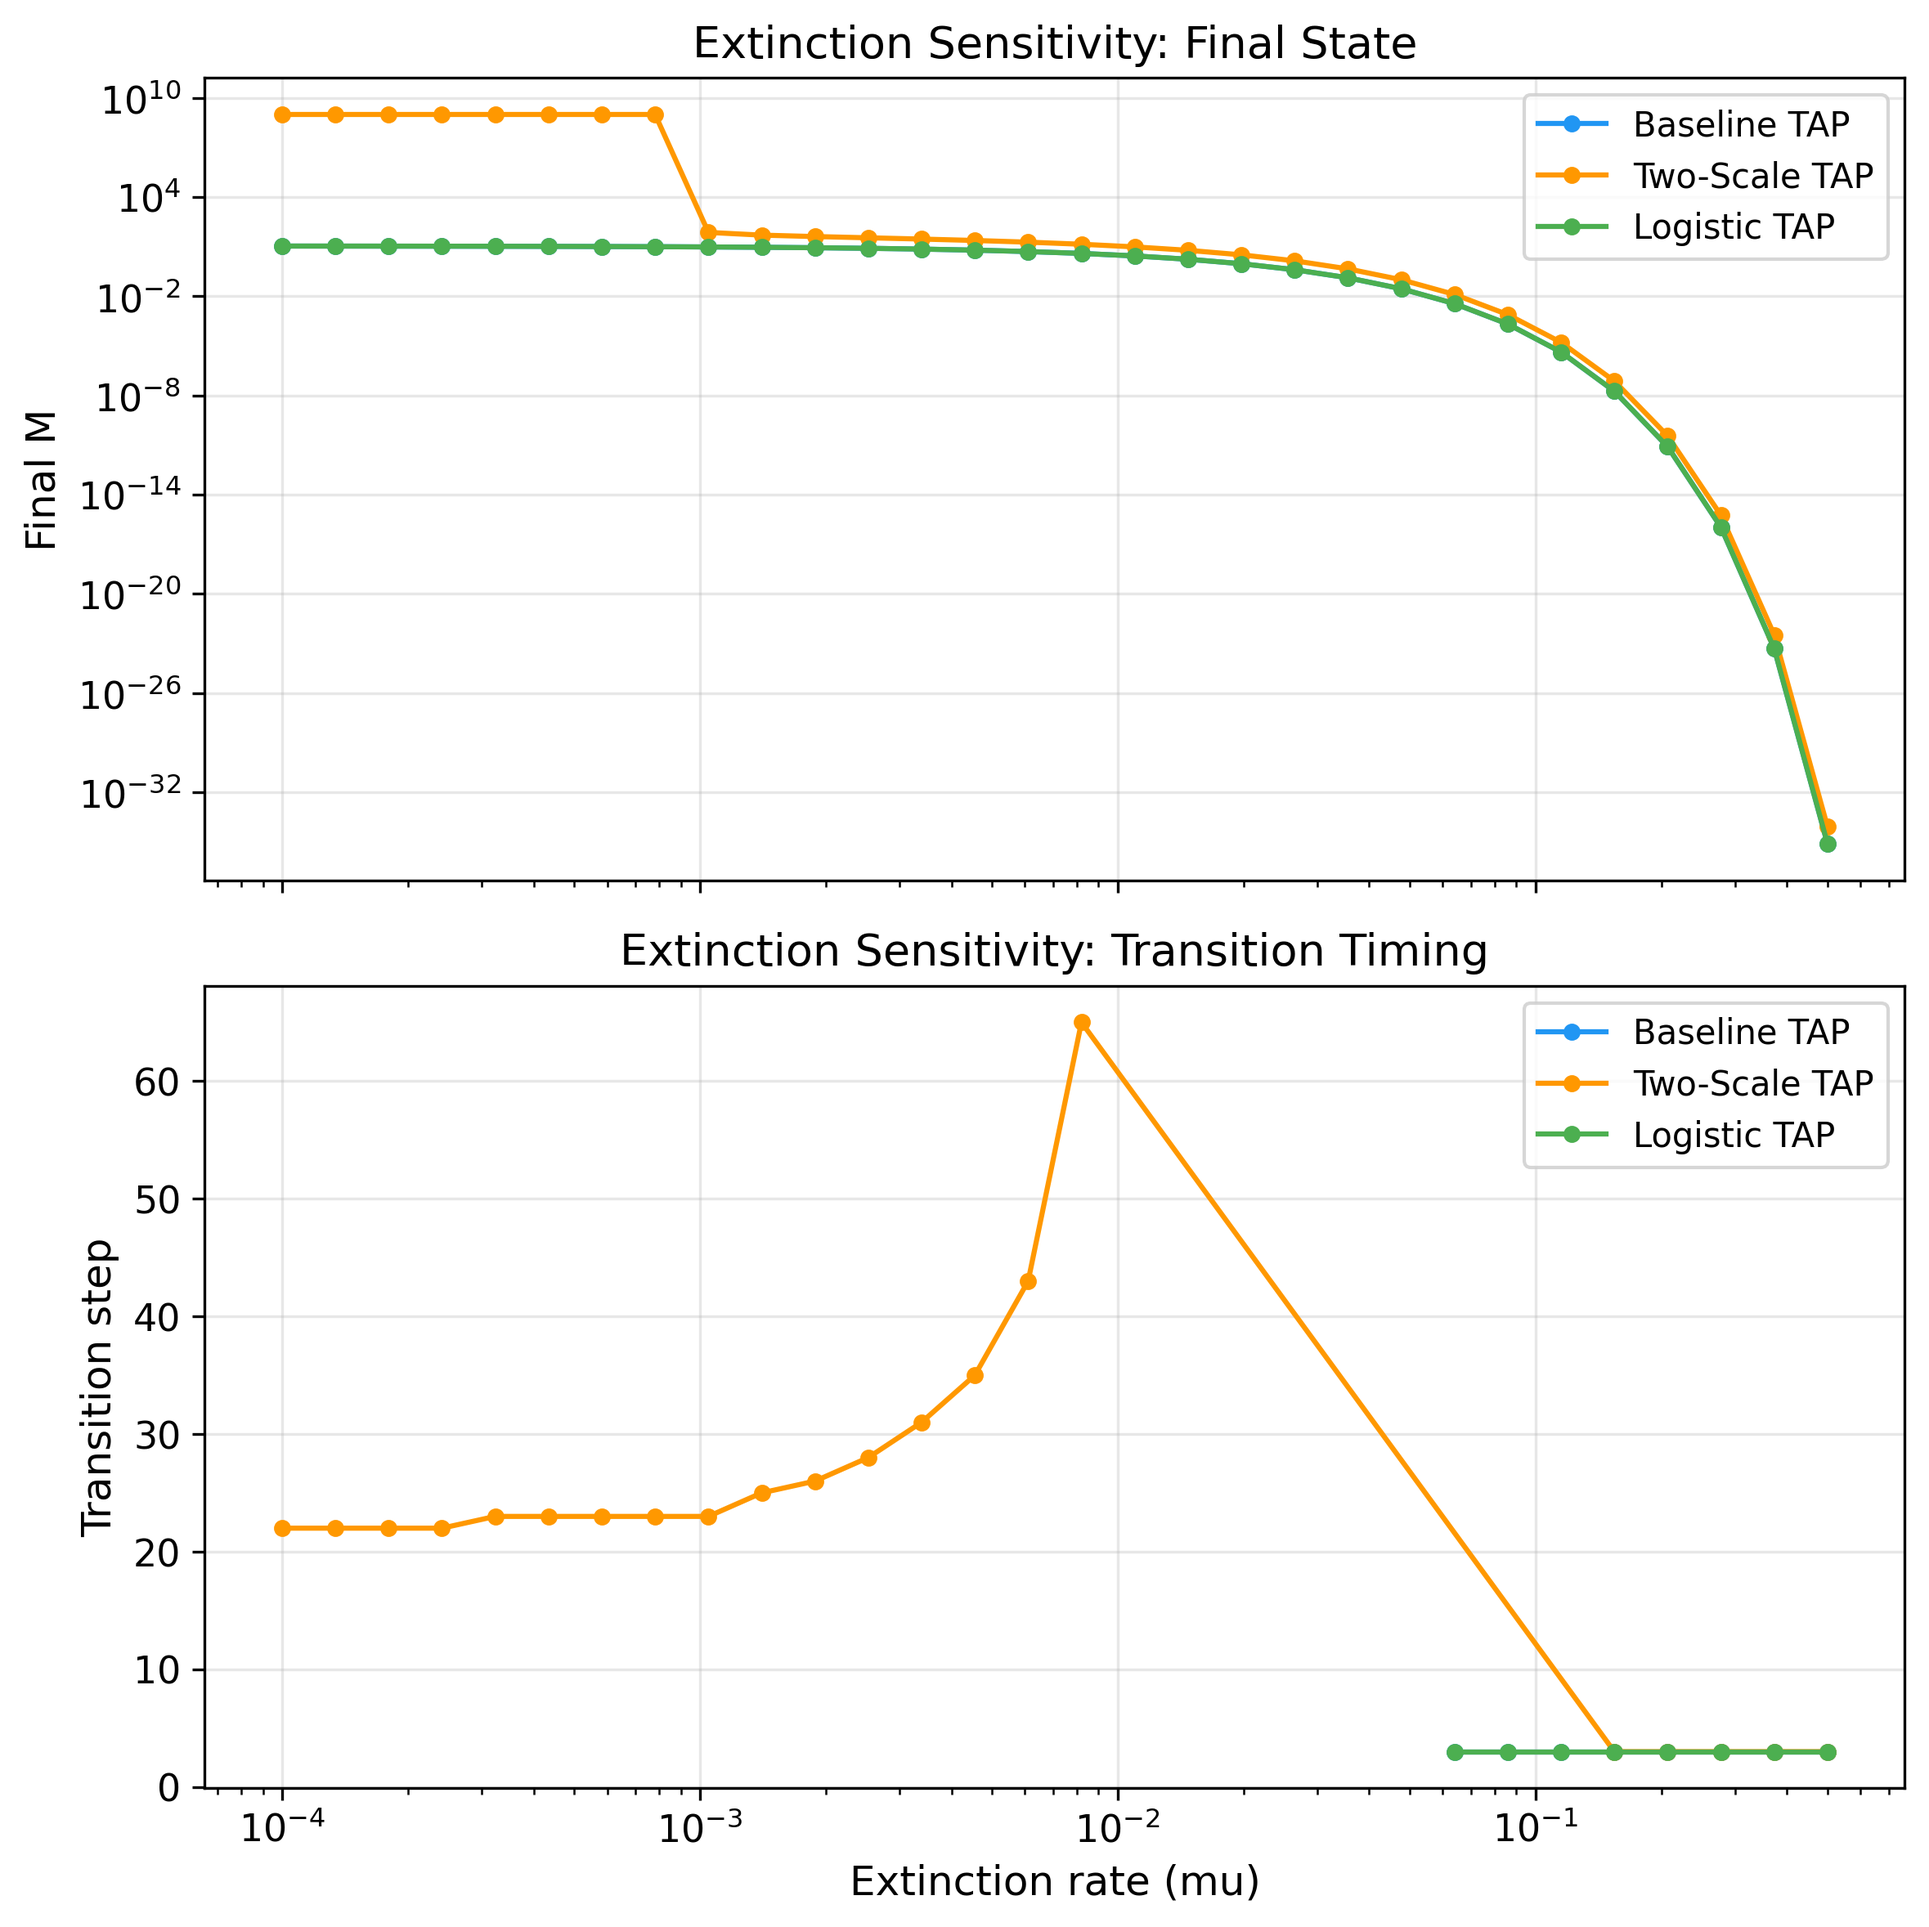
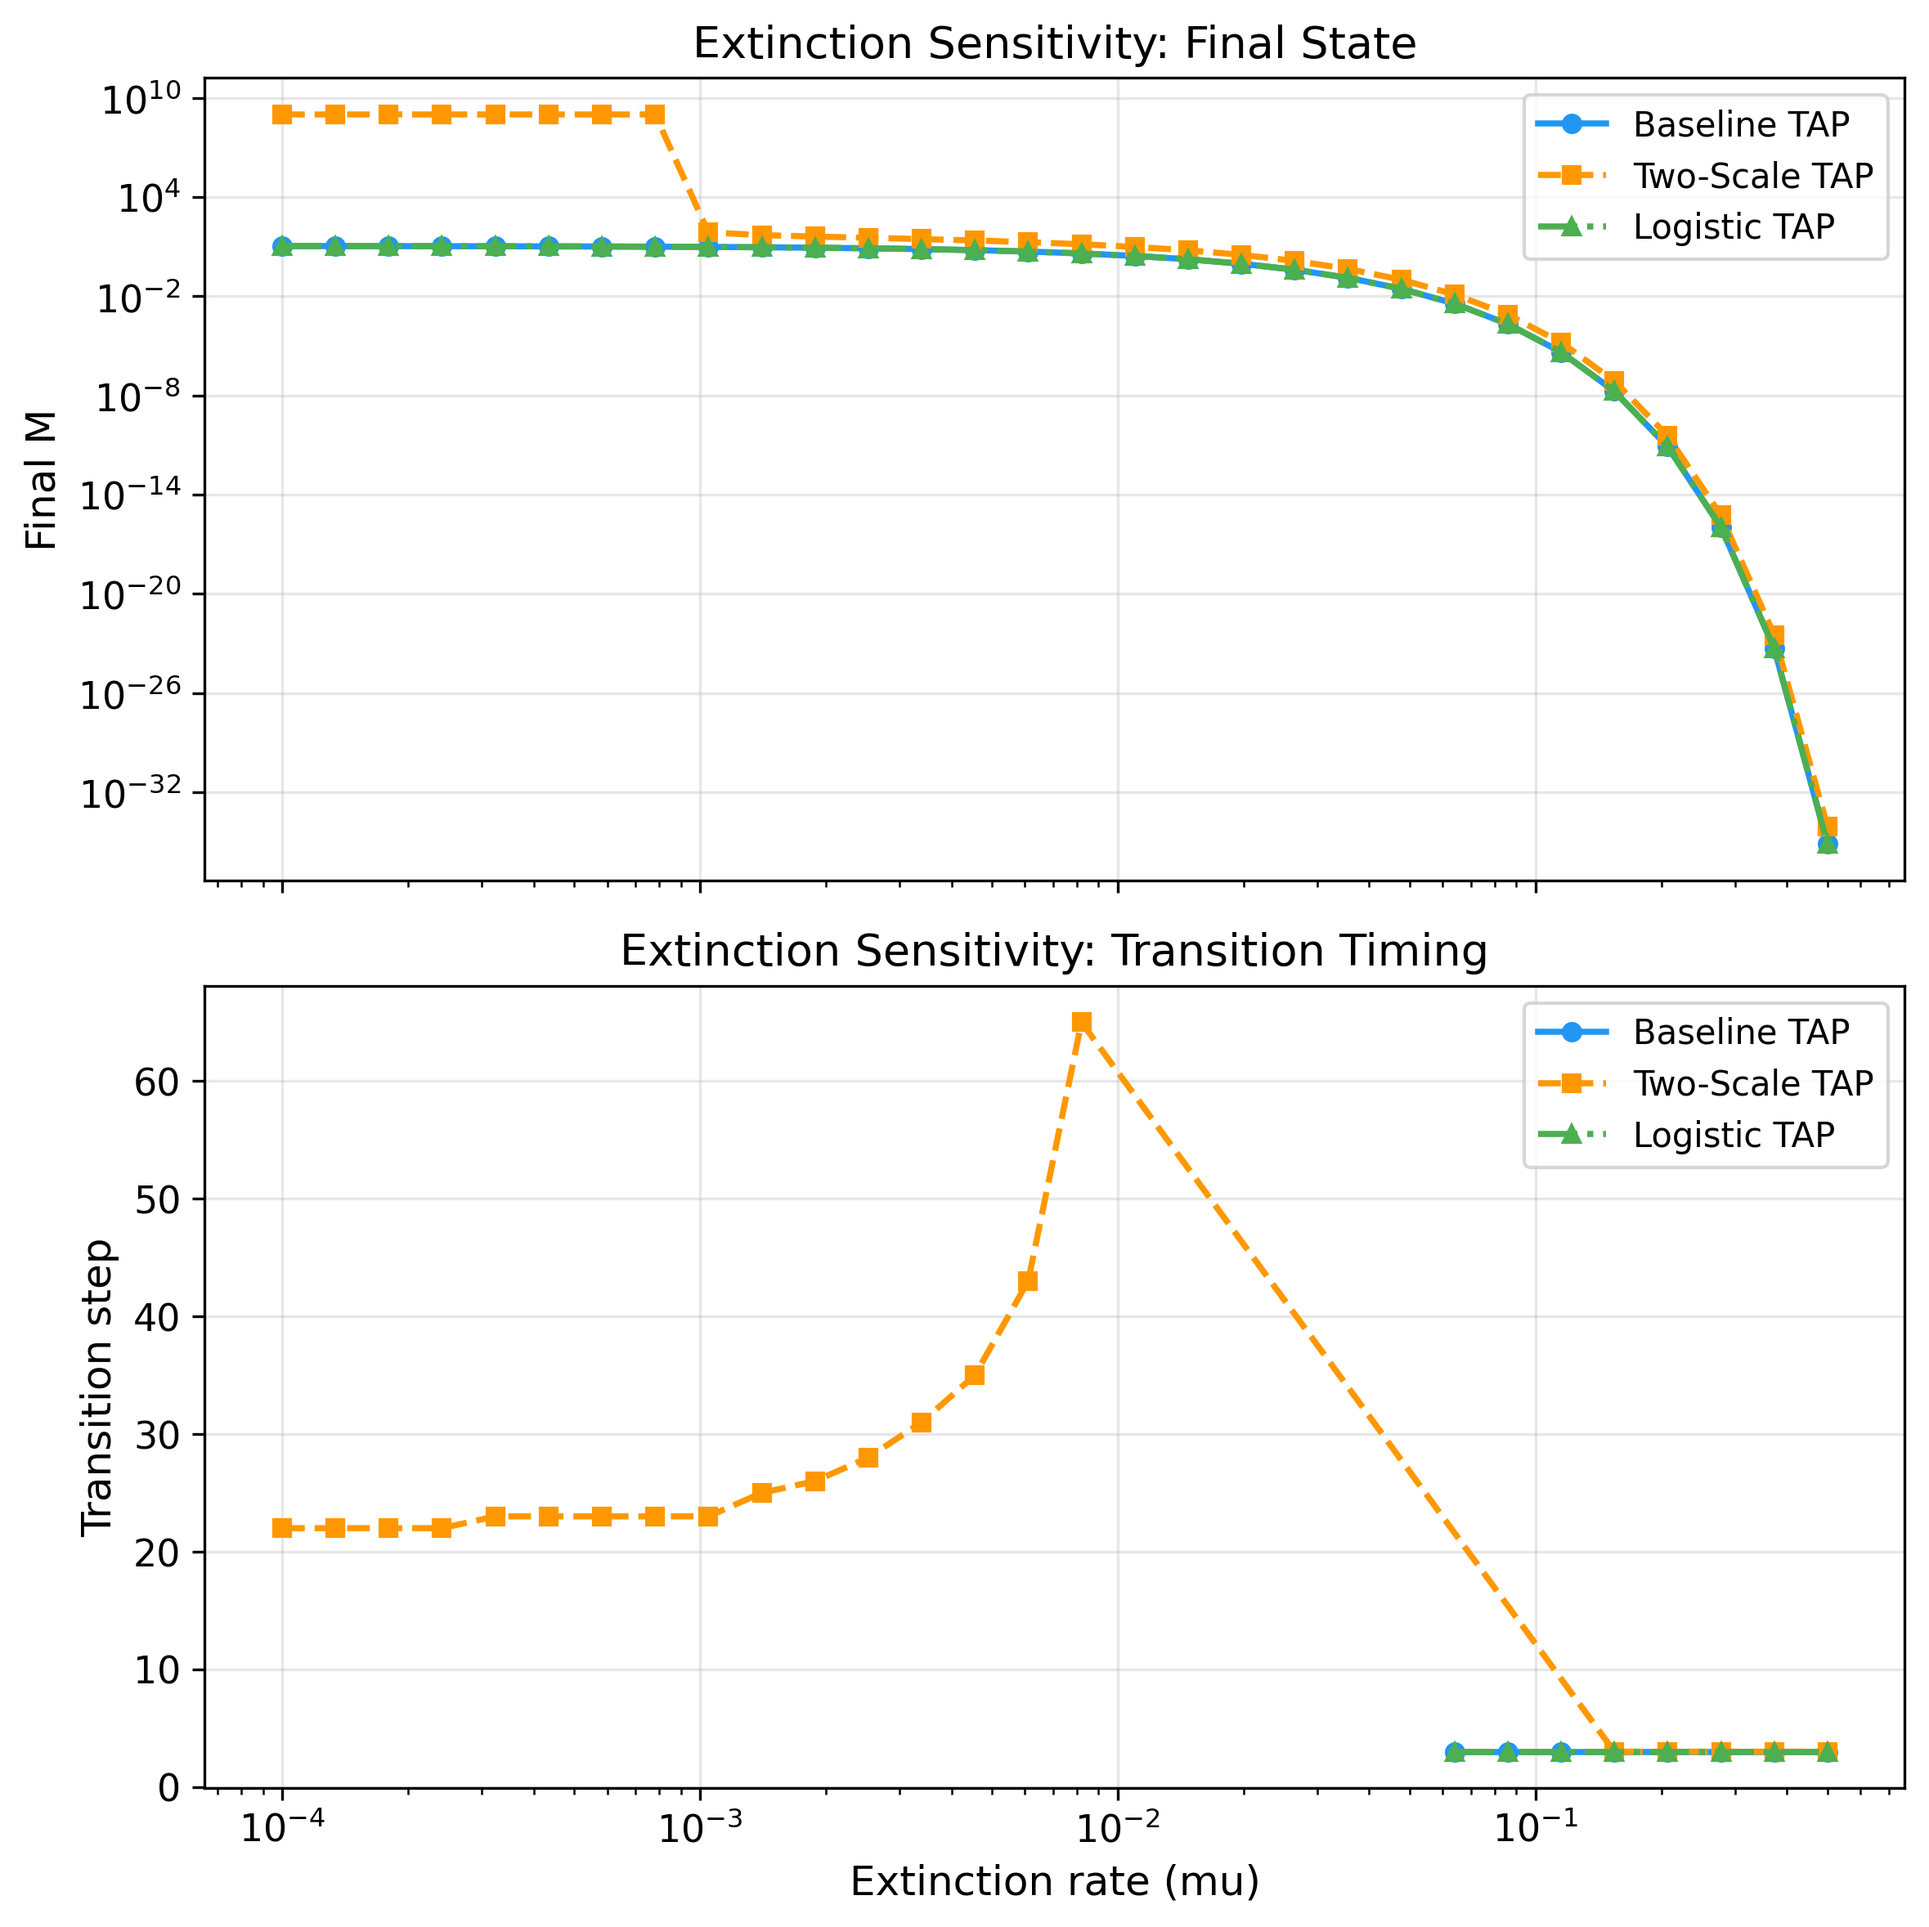
fix: figure quality — growth params, m_cap guard, distinct markers
- Trajectory: use growth-producing params (alpha=5e-3, a=3, mu=0.005)
  so all 3 variants show actual TAP growth instead of extinction
- Turbulence: same growth params + m_cap=1e4 to prevent ODE solver hang
- Sensitivity: distinct markers (o/s/^) and linestyles per variant
- Scaling exponents: use first 70% of trajectory to avoid S-curve tail
- Remove dead _make_params line overwritten by explicit ModelParams

diff --git a/scripts/generate_figures.py b/scripts/generate_figures.py
@@ -74,26 +74,36 @@ def _make_params(variant: str, alpha=1e-3, a=8.0, mu=0.02) -> ModelParams:
 # ── Figure 1: Trajectory comparison ──────────────────────────────────
 
 def fig_trajectory_variants(save_path: str | None = None) -> None:
-    """M(t) trajectories for all three variants side by side."""
+    """M(t) trajectories for all three variants overlaid."""
     _setup_style()
-    fig, axes = plt.subplots(1, 3, figsize=(14, 4), sharey=True)
+    fig, ax = plt.subplots(figsize=(9, 5))
 
-    for i, variant in enumerate(["baseline", "two_scale", "logistic"]):
-        ax = axes[i]
-        params = _make_params(variant)
-        result = run_continuous(
-            initial_M=10.0, t_span=(0, 50), params=params,
-            sigma0=1.0, gamma=0.0, max_step=0.5,
+    styles = {"baseline": "-", "two_scale": "--", "logistic": "-."}
+
+    for variant in ["baseline", "two_scale", "logistic"]:
+        # Use growth-producing params: a=3 gives strong combinatorial coupling,
+        # alpha=5e-3 ensures birth > death at M=10.
+        K = 80.0 if variant == "logistic" else None
+        params = ModelParams(
+            alpha=5e-3, a=3.0, mu=0.005, beta=0.05, eta=0.02,
+            tap_variant=variant,
+            alpha1=0.05 if variant == "two_scale" else 0.0,
+            carrying_capacity=K,
         )
-        ax.plot(result.t, result.M, color=COLORS[variant], linewidth=2,
+        result = run_continuous(
+            initial_M=10.0, t_span=(0, 20), params=params,
+            sigma0=1.0, gamma=0.0, max_step=0.5, m_cap=1e4,
+        )
+        ax.plot(result.t, result.M, styles[variant],
+                color=COLORS[variant], linewidth=2.5,
                 label=VARIANT_LABELS[variant])
-        ax.set_xlabel("Time")
-        ax.set_title(VARIANT_LABELS[variant])
-        ax.legend(loc="upper left")
-        if i == 0:
-            ax.set_ylabel("M(t)")
 
-    fig.suptitle("TAP Variant Trajectories", fontsize=14, y=1.02)
+    ax.set_xlabel("Time")
+    ax.set_ylabel("M(t) — realized objects")
+    ax.set_title("TAP Variant Trajectories")
+    ax.legend()
+    ax.set_yscale("log")
+
     plt.tight_layout()
     path = save_path or str(OUT / "trajectory_variants.png")
     Path(path).parent.mkdir(parents=True, exist_ok=True)
@@ -184,6 +194,8 @@ def fig_extinction_sensitivity(
 
     fig, (ax1, ax2) = plt.subplots(2, 1, figsize=(8, 8), sharex=True)
 
+    line_styles = {"baseline": ("o", "-"), "two_scale": ("s", "--"), "logistic": ("^", "-.")}
+
     for variant in ["baseline", "two_scale", "logistic"]:
         vrows = sorted(
             [r for r in rows if r["variant"] == variant],
@@ -192,15 +204,17 @@ def fig_extinction_sensitivity(
         mus = [r["mu"] for r in vrows]
         final_Ms = [r["final_M"] for r in vrows]
         trans_steps = [r["transition_step"] for r in vrows]
+        marker, ls = line_styles[variant]
 
-        ax1.plot(mus, final_Ms, "o-", color=COLORS[variant],
-                 label=VARIANT_LABELS[variant], markersize=4, linewidth=1.5)
+        ax1.plot(mus, final_Ms, marker=marker, linestyle=ls, color=COLORS[variant],
+                 label=VARIANT_LABELS[variant], markersize=5, linewidth=1.8)
 
         valid_mu = [m for m, t in zip(mus, trans_steps) if t is not None]
         valid_ts = [t for t in trans_steps if t is not None]
         if valid_mu:
-            ax2.plot(valid_mu, valid_ts, "o-", color=COLORS[variant],
-                     label=VARIANT_LABELS[variant], markersize=4, linewidth=1.5)
+            ax2.plot(valid_mu, valid_ts, marker=marker, linestyle=ls,
+                     color=COLORS[variant],
+                     label=VARIANT_LABELS[variant], markersize=5, linewidth=1.8)
 
     ax1.set_xscale("log")
     ax1.set_yscale("log")
@@ -249,6 +263,8 @@ def fig_adjacency_sensitivity(
 
     fig, (ax1, ax2) = plt.subplots(2, 1, figsize=(8, 8), sharex=True)
 
+    line_styles = {"baseline": ("o", "-"), "two_scale": ("s", "--"), "logistic": ("^", "-.")}
+
     for variant in ["baseline", "two_scale", "logistic"]:
         vrows = sorted(
             [r for r in rows if r["variant"] == variant],
@@ -257,9 +273,11 @@ def fig_adjacency_sensitivity(
         a_vals = [r["a"] for r in vrows]
         final_Ms = [r["final_M"] for r in vrows]
         regimes = [r["regime"] for r in vrows]
+        marker, ls = line_styles[variant]
 
-        ax1.plot(a_vals, final_Ms, "o-", color=COLORS[variant],
-                 label=VARIANT_LABELS[variant], markersize=5, linewidth=1.5)
+        ax1.plot(a_vals, final_Ms, marker=marker, linestyle=ls,
+                 color=COLORS[variant],
+                 label=VARIANT_LABELS[variant], markersize=5, linewidth=1.8)
 
         for a_v, fm, reg in zip(a_vals, final_Ms, regimes):
             if reg == "explosive":
@@ -369,10 +387,10 @@ def fig_turbulence_bandwidth(save_path: str | None = None) -> None:
     """B(t) and Re_prax with laminar/turbulent shading."""
     _setup_style()
 
-    params = _make_params("baseline", alpha=1e-3, a=8.0, mu=0.005)
+    params = _make_params("baseline", alpha=5e-3, a=3.0, mu=0.005)
     result = run_continuous(
-        initial_M=10.0, t_span=(0, 60), params=params,
-        sigma0=1.0, gamma=0.0, max_step=0.5,
+        initial_M=10.0, t_span=(0, 25), params=params,
+        sigma0=1.0, gamma=0.0, max_step=0.5, m_cap=1e4,
     )
     diag = compute_turbulence_diagnostics(result, params, sigma0=1.0, gamma=0.0)
 
@@ -437,7 +455,10 @@ def fig_scaling_exponents(save_path: str | None = None) -> None:
                 pred = _euler_tap(t_data, ds["counts"][0],
                                   p["s"], p["p"], p["mu"], K=p.get("K"))
                 if pred is not None:
-                    scaling = innovation_rate_scaling(list(pred))
+                    # Use growth phase only (first 70%) to avoid saturating
+                    # tail pulling the exponent negative on S-shaped curves.
+                    n_growth = max(3, int(0.7 * len(pred)))
+                    scaling = innovation_rate_scaling(list(pred[:n_growth]))
                     exponents[variant].append(scaling["exponent"])
                 else:
                     exponents[variant].append(0)
